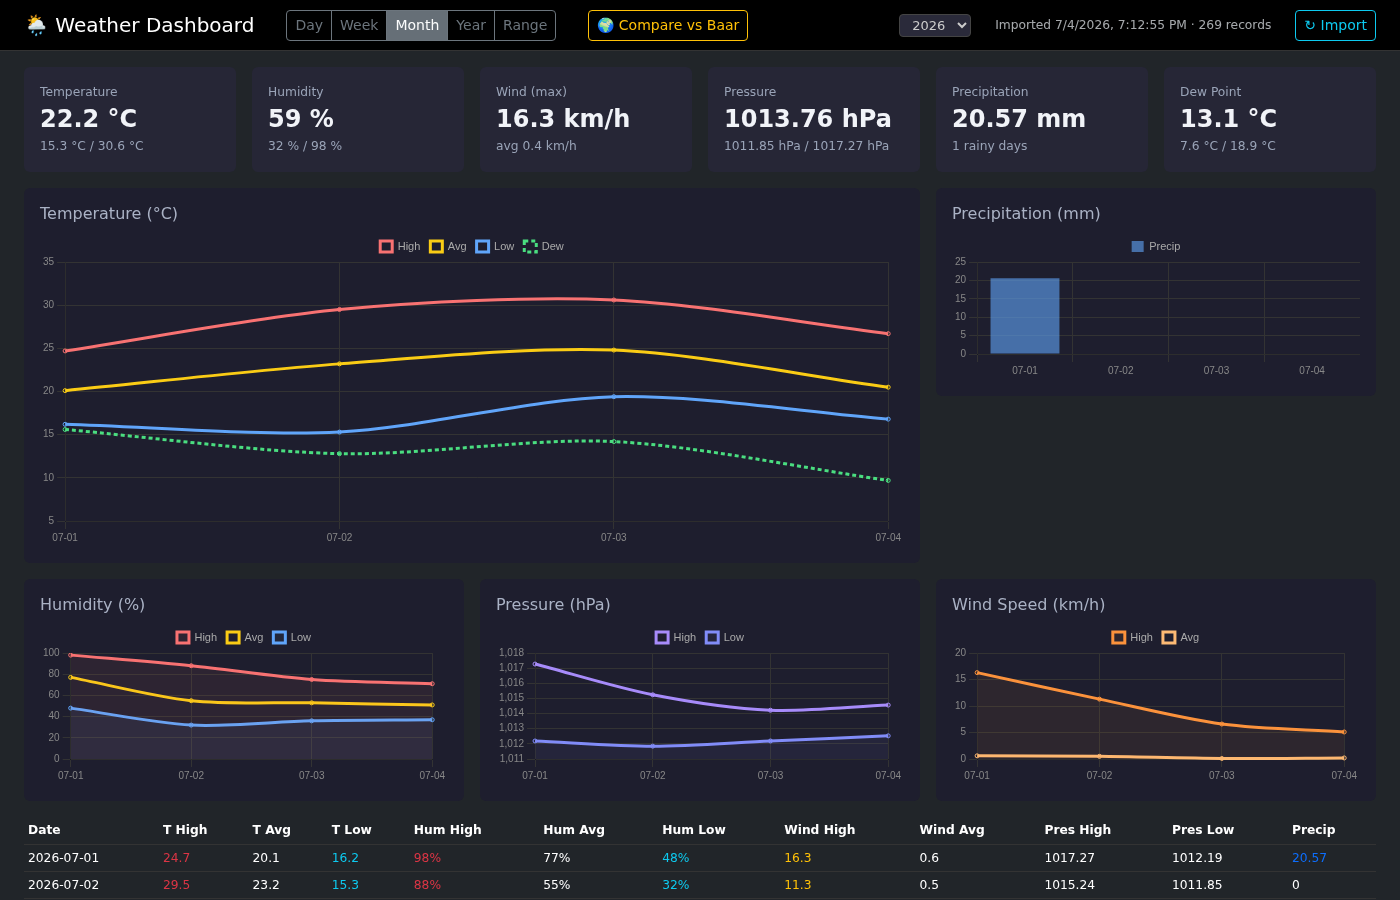
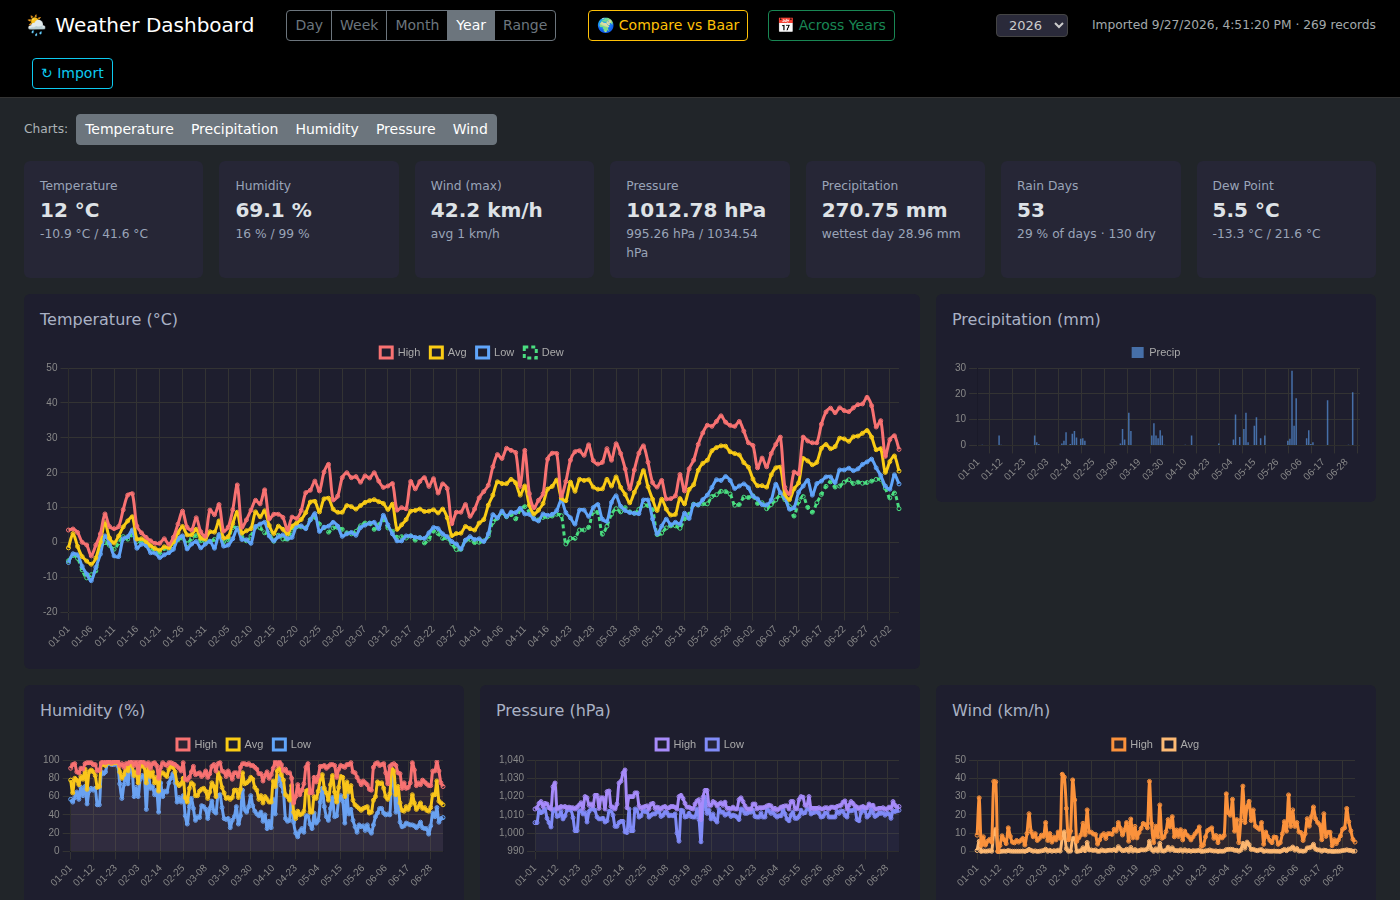
Rain Days stat card for the selected time range (#52)
aggregateStats gains a 'rain' group (days, dry, pct of days with data),
shown on its own dashboard card and in the Across Years table. The
Precipitation card's sub-line now shows the wettest day instead.

Claude-Session: https://claude.ai/code/session_01PF7TPwtc5Vu4unCn5mt7VL

diff --git a/src/client/app.ts b/src/client/app.ts
@@ -22,7 +22,8 @@ interface Stats {
   humidity: StatTriple;
   wind: { high: number; avg: number };
   pressure: StatTriple;
-  precip: { total: number; rainy_days: number };
+  precip: { total: number; max: number };
+  rain: { days: number; dry: number; pct: number };
 }
 
 interface PublicRow {
@@ -808,7 +809,11 @@ const STAT_CARDS: StatCard[] = [
   { prefix: 'pres', title: 'Pressure', pick: s => s.pressure, unit: 'hPa',
     headline: 'avg', sub: HIGH_LOW },
   { prefix: 'precip', title: 'Precipitation', pick: s => s.precip, unit: 'mm',
-    headline: 'total', sub: [{ key: 'rainy_days', after: ' rainy days' }], bare: ['rainy_days'] },
+    headline: 'total', sub: [{ key: 'max', before: 'wettest day ' }] },
+  // Rain days: a day with any precipitation. `pct` is of the days with data.
+  { prefix: 'rain', title: 'Rain Days', pick: s => s.rain, unit: '%',
+    headline: 'days', sub: [{ key: 'pct', after: ' of days · ' }, { key: 'dry', after: ' dry' }],
+    bare: ['days', 'dry'] },
   { prefix: 'dew', title: 'Dew Point', pick: s => s.dew, unit: '°C',
     headline: 'avg', sub: HIGH_LOW },
 ];
@@ -865,12 +870,12 @@ const statSpan = (prefix: string, key: string) => `<span id="${statId(prefix, ke
 
 function renderStatCards(): void {
   renderList('stat-cards', STAT_CARDS, c => `
-    <div class="col-6 col-md-4 col-xl-2">
+    <div class="col-6 col-md-4 col-xl">
       ${cardWell({
         cls: 'h-100',
         bodyCls: 'p-3',
         body: `<div class="text-muted small">${c.title}</div>
-          <div class="fs-4 fw-bold" id="${statId(c.prefix, c.headline)}">—</div>
+          <div class="fs-5 fw-bold text-nowrap" id="${statId(c.prefix, c.headline)}">—</div>
           <div class="small text-muted">${c.sub
             .map(p => `${p.before ?? ''}${statSpan(c.prefix, p.key)}${p.after ?? ''}`)
             .join('')}</div>`,
@@ -1460,7 +1465,8 @@ const YOY_SUMMARY: { label: string; prefix: string; key: string }[] = [
   { label: 'Wind max',     prefix: 'wind',   key: 'high' },
   { label: 'Pressure avg', prefix: 'pres',   key: 'avg' },
   { label: 'Precip total', prefix: 'precip', key: 'total' },
-  { label: 'Rainy days',   prefix: 'precip', key: 'rainy_days' },
+  { label: 'Rain days',    prefix: 'rain',   key: 'days' },
+  { label: 'Rain days %',  prefix: 'rain',   key: 'pct' },
 ];
 
 // The current comparison unit; its value pickers are rebuilt when it changes.

diff --git a/src/db.ts b/src/db.ts
@@ -205,7 +205,22 @@ export function aggregateStats(rows: WeatherRow[]) {
     dew: triple('dew', r => r.dew_avg),
     precip: {
       total: round(sum(r => r.precip), 2),
-      rainy_days: rows.filter(r => r.precip > 0).length,
+      max:   max(r => r.precip),
     },
+    rain: rainDays(rows),
+  };
+}
+
+/**
+ * Rain days over a set of rows: a day counts as rainy when any precipitation
+ * was recorded. `pct` is their share of the days that have data (not of the
+ * calendar days in the period), so a gap in the record doesn't read as dry.
+ */
+export function rainDays(rows: WeatherRow[]) {
+  const days = rows.filter(r => r.precip > 0).length;
+  return {
+    days,
+    dry: rows.length - days,
+    pct: rows.length ? Math.round((days / rows.length) * 100) : 0,
   };
 }

diff --git a/README.md b/README.md
@@ -19,7 +19,9 @@ server to run.
   pickers only offer dates that actually exist in your data, and an **All**
   toggle spans the entire dataset in one click.
 - **At-a-glance stats** — high/avg/low cards for every metric, plus totals
-  like accumulated precipitation and number of rainy days.
+  like accumulated precipitation and the wettest day, plus a **Rain Days** card
+  counting the days with any precipitation in the selected window (with their
+  share of the days that have data, and the dry-day count).
 - **Interactive charts** — temperature, precipitation, humidity, pressure and
   wind rendered with Chart.js.
 - **Compare vs. a public station** — overlay your readings against
